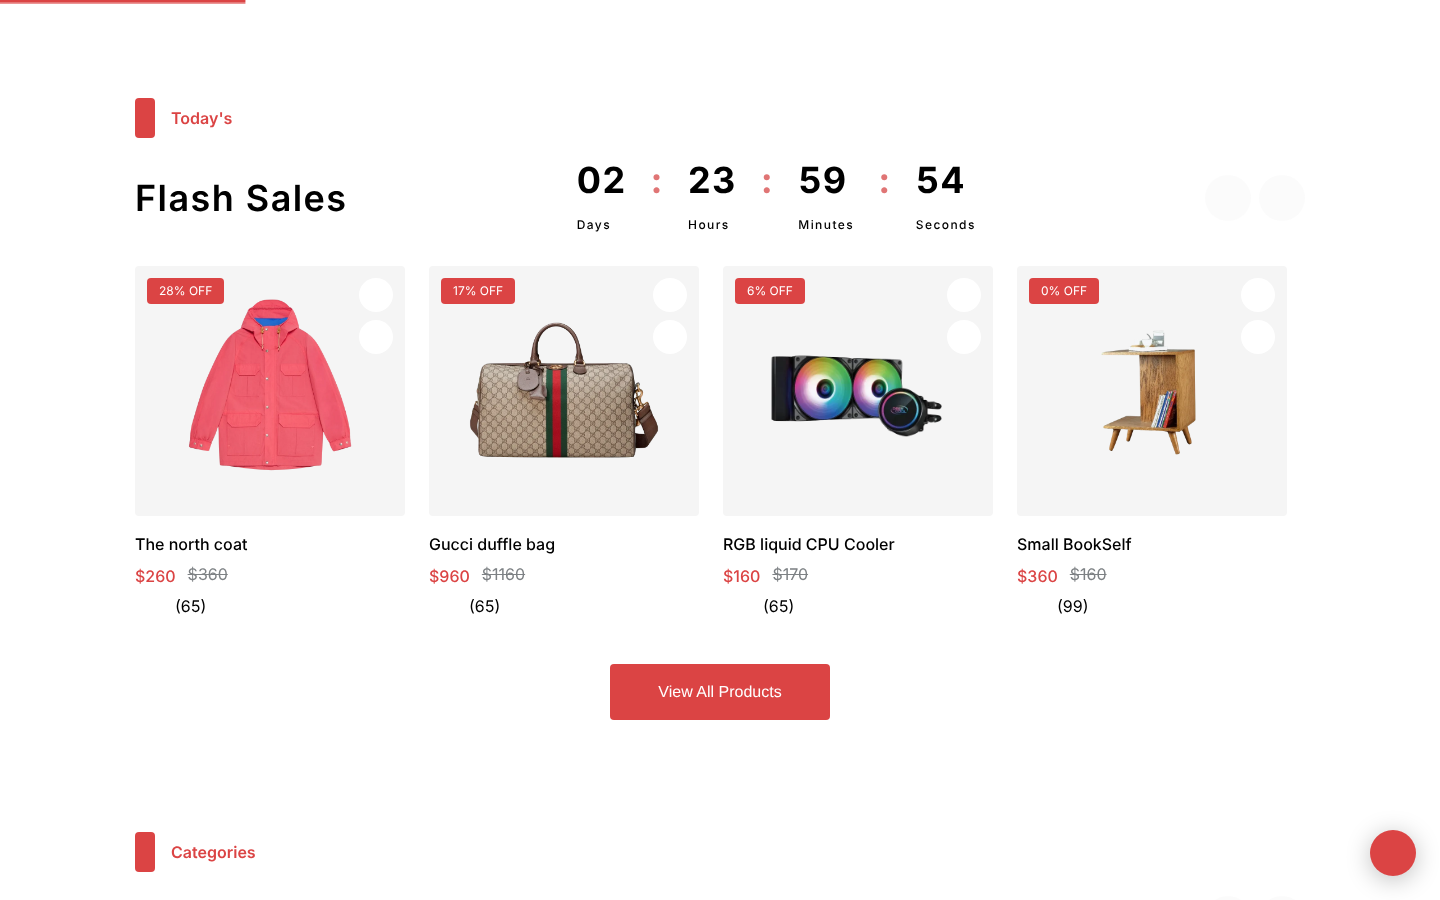
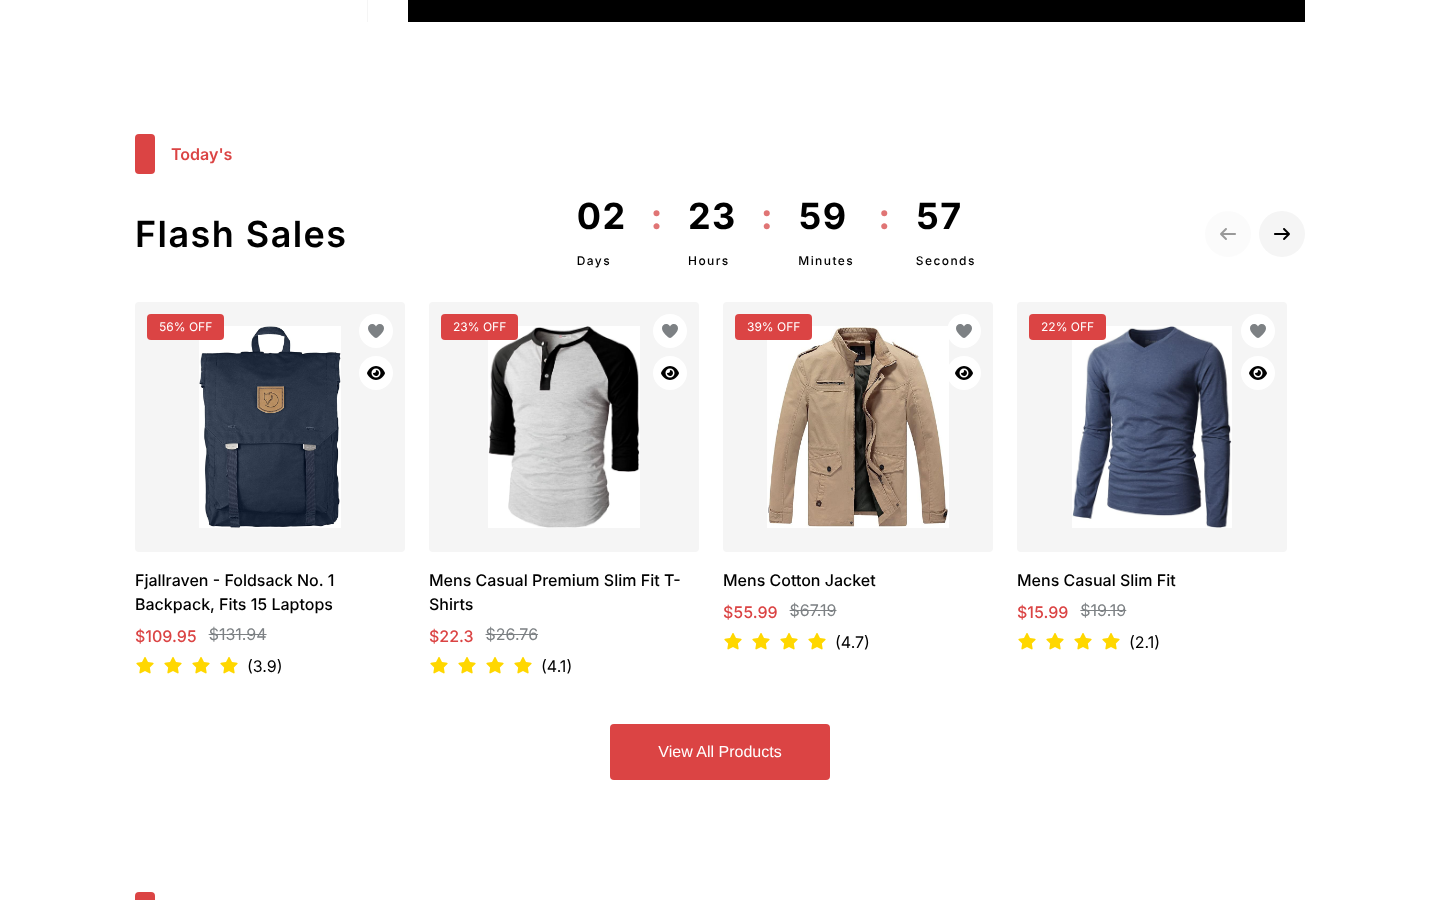
docs(readme): rewrite with a full screenshot tour and setup guide
Retake all screenshots with working icons and real product images, add
shop, product, checkout, wishlist, search, about, contact, Arabic (RTL)
and mobile views, and document features, demo credentials, storage keys
and known limits.

Claude-Session: https://claude.ai/code/session_019BEbuZy8u6ydesNzhcCETE

diff --git a/README.md b/README.md
@@ -1,66 +1,184 @@
-# Exclusive: E-commerce Storefront
+# Exclusive
 
-**A responsive online shop built in React: product browsing, flash sales with a live countdown, wishlist, cart, checkout and Arabic / English with right-to-left layout.**
+A complete online-shop front end built with React. You can browse products, filter them by category, search, like items, fill a cart, apply a coupon and go through checkout. The whole interface also switches between English and Arabic, and the Arabic version flips to right-to-left.
 
-**Live demo:** [ecommerce-one-teal-22.vercel.app](https://ecommerce-one-teal-22.vercel.app)
+Live demo: [ecommerce-one-teal-22.vercel.app](https://ecommerce-one-teal-22.vercel.app)
 
 ![Home page](docs/images/home.png)
 
-## What it is
+## What this is
 
-A front-end storefront based on the "Exclusive" design. It has no backend of its own: the cart and wishlist are kept in the browser (`localStorage`), and products and sign-in come from a public demo API. I built it to practise what every real shop needs: shared state, routing, forms, animation, and a layout that works from phone to desktop.
+Exclusive is a storefront based on the "Exclusive" e-commerce design. It has no server of its own. Products and the demo login come from the public [FakeStore API](https://fakestoreapi.com), and everything the visitor does (cart, wishlist, language, billing details) is kept in the browser with `localStorage`, so it is still there after a refresh.
 
-## Highlights
+It is a good project to read if you want to see how a normal shop is put together in React: shared state, routing, forms, a translated and mirrored layout, and animation, without any backend code in the way.
+
+## What you can do
+
+- Browse a home page with a hero banner, a flash sale slider with a countdown, categories, best sellers, a promo block and new arrivals.
+- Open the shop and filter products by category.
+- Search from the header and get matching products.
+- Open a product page with a gallery, quantity picker, delivery check and related items, or use the quick view popup straight from any product card.
+- Like products and review them on a wishlist page.
+- Add products to a cart, change quantities, remove them, and apply a coupon.
+- Check out with billing details and a payment choice.
+- Sign up or log in.
+- Switch the whole site between English and Arabic.
+- Use it on a phone: the layout adapts down to small screens and the header turns into a menu.
+
+## A tour of the app
+
+### Home and flash sales
+
+The flash sale section pulls products from the API, shows a discount badge, the old price and the rating, and scrolls sideways with the arrow buttons.
 
 ![Flash sales](docs/images/flash-sales.png)
 
-- **Flash sales.** A product slider with a live countdown, discount badges and "Add to cart". If the product API is down, the section falls back to local data instead of staying on "Loading..." forever.
-- **Cart and wishlist.** Add, remove and change quantities, with totals and a coupon box. Everything goes through one `AppContext`, so every page stays in sync without prop drilling, and both survive a page refresh.
-- **Shop, search and product details**, with category filters, a quick-view popup and a checkout page.
-- **Login and sign up** with form feedback and error messages (see the notes below about the demo API).
-- **Smooth animation** with Framer Motion: reveal on scroll, a flip-number countdown, an animated wishlist heart.
-- **Arabic and English.** The language switch in the header also flips the page to right-to-left. English is the fallback for any missing key (`src/i18n`).
-- **Tests** for the cart state and the wishlist flow.
+### Best sellers and quick view
 
-![Login](docs/images/login.png)
+Hovering a card reveals "Add To Cart". The eye icon opens a quick view popup so you can read the description and add the product without leaving the page.
 
-## Tech stack
+<table>
+<tr>
+<td width="50%"><img src="docs/images/best-selling.png" alt="Best selling products grid with the add to cart button showing on a hovered card"><br><sub>Best selling products</sub></td>
+<td width="50%"><img src="docs/images/quick-view.png" alt="Quick view popup over the product grid"><br><sub>Quick view</sub></td>
+</tr>
+</table>
 
-React 19 · React Router 7 · Framer Motion · react-countdown · CSS Modules · Create React App · Jest and Testing Library · deployed on Vercel.
+### Categories and the promo block
 
-## Run it locally
+<table>
+<tr>
+<td width="50%"><img src="docs/images/categories.png" alt="Browse by category row"><br><sub>Browse by category</sub></td>
+<td width="50%"><img src="docs/images/music-promo.png" alt="Music promo block with a countdown and a speaker"><br><sub>Promo block with its own countdown</sub></td>
+</tr>
+</table>
+
+### Shop and product page
+
+The shop page has category filters, and the fashion and electronics links in the home page sidebar open it already filtered. The product page shows a gallery, rating, price, quantity picker, a postal code check and the return policy.
+
+<table>
+<tr>
+<td width="50%"><img src="docs/images/shop.png" alt="Shop page filtered to electronics"><br><sub>Shop, filtered by category</sub></td>
+<td width="50%"><img src="docs/images/product-details.png" alt="Product page for a men's cotton jacket"><br><sub>Product page</sub></td>
+</tr>
+</table>
+
+### Wishlist and checkout
+
+The wishlist keeps everything you liked, grouped by the section it came from. Checkout shows the order, applies the coupon, and can remember your billing details for next time.
+
+<table>
+<tr>
+<td width="50%"><img src="docs/images/wishlist.png" alt="Wishlist page with liked products"><br><sub>Wishlist</sub></td>
+<td width="50%"><img src="docs/images/checkout.png" alt="Checkout page with billing form, order summary and the SAVE10 discount applied"><br><sub>Checkout with a coupon applied</sub></td>
+</tr>
+</table>
+
+### Search and sign in
+
+<table>
+<tr>
+<td width="50%"><img src="docs/images/search.png" alt="Search results for the word jacket"><br><sub>Search results</sub></td>
+<td width="50%"><img src="docs/images/login.png" alt="Log in page"><br><sub>Log in (sign up is on the same page)</sub></td>
+</tr>
+</table>
+
+### About and contact
+
+<table>
+<tr>
+<td width="50%"><img src="docs/images/about.png" alt="About page with the story and key numbers"><br><sub>About</sub></td>
+<td width="50%"><img src="docs/images/contact.png" alt="Contact page with the contact details and message form"><br><sub>Contact</sub></td>
+</tr>
+</table>
+
+### Arabic and right-to-left
+
+The language selector in the top bar changes the interface text and mirrors the layout. Your choice is saved, and English is used for any text that has no Arabic translation yet.
+
+![Home page in Arabic](docs/images/arabic.png)
+
+### On a phone
+
+![Home, open menu and shop on a phone](docs/images/mobile.png)
+
+## Details worth knowing
+
+**Cart and coupon.** Quantities go from 1 to 20. The coupon code `SAVE10` takes 10% off. The cart, the wishlist and the cart counter in the header all read from one shared context, so they never disagree.
+
+**Checkout.** The form validates required fields and offers bank or cash on delivery. If you tick "Save this information", your billing details are filled in next time. There is no payment: placing an order only shows a confirmation.
+
+**Accounts.** Signing up creates an account that lives in your browser only. You can also log in with the FakeStore demo account (username `mor_2314`, password `83r5^_`). "Forget Password?" only shows a confirmation, because there is no email service behind it.
+
+**Countdowns.** The flash sale and promo countdowns are visual. They start from the same length every time the page loads.
+
+**Animation.** Pages fade between routes, sections reveal as you scroll, cards lift on hover, cart totals count up and down, and a thin progress bar and a back-to-top button follow your scroll. Everything uses Framer Motion and respects the "reduce motion" setting of the operating system.
+
+## Run it on your computer
+
+You need Node.js 18 or newer.
 
 ```bash
 git clone https://github.com/Ayaalmadhon2004/Ecommerce-.git
 cd Ecommerce-
 npm install
-npm start          # http://localhost:3000
+npm start
 ```
+
+The app opens at http://localhost:3000. It needs an internet connection, because products, product images and the Font Awesome icons are loaded from the network.
+
+Things to try first:
+
+1. Open the shop, like a few products and add two or three to the cart.
+2. Go to the cart and apply `SAVE10`.
+3. Continue to checkout and place an order.
+4. Switch the language to Arabic from the top bar.
 
 | Command | What it does |
 |---|---|
-| `npm start` | Development server |
-| `npm test` | Tests in watch mode (`npm test -- --watchAll=false` for a single run) |
-| `npm run build` | Production build in `build/` |
+| `npm start` | Starts the development server |
+| `npm run build` | Creates the production build in `build/` |
+| `npm test -- --watchAll=false` | Runs the tests once |
+
+## Built with
+
+- React 19 and React Router 7
+- Framer Motion for animation
+- react-countdown for the flash sale timer
+- CSS Modules for most components, and Tailwind CSS for the About and Contact pages
+- Font Awesome icons, loaded from a CDN
+- Create React App, Jest and Testing Library
+- Deployed on Vercel
 
 ## Project structure
 
 ```
 src/
-├── App.js                 routes and the home page composition
-├── context/               AppContext (cart, likes) and AuthContext
-├── i18n/                  translations and the language switcher
+├── App.js                 routes and the home page layout
+├── context/               AppContext (cart, likes, coupon) and AuthContext
+├── i18n/                  translations and the language provider
+├── hooks/                 shared hooks, such as the sideways scroller
+├── styles/                design tokens and shared CSS
 └── components/
-    ├── <Name>/            one folder per component: .jsx + its own CSS Module
-    └── data/              static product and category data
+    ├── <Name>/            one folder per component: .jsx plus its own CSS Module
+    ├── animations/        shared Framer Motion variants and helpers
+    └── data/              static product, category and service data
 ```
 
-## Notes and known limits
+State that survives a refresh is stored under these `localStorage` keys: `cart`, `likes`, `lang`, `token`, `username`, `localUsers` and `billingInfo`.
 
-- The shop, product details and login talk to the public [FakeStore API](https://fakestoreapi.com), so they need an internet connection and are only as available as that service. Its demo accounts are the only ones that can sign in.
-- There is no payment. Checkout is a front-end flow only.
-- Branch and commit rules for contributors are in [`CLAUDE.md`](CLAUDE.md).
+## Known limits
+
+- Products, product images and the demo login depend on the FakeStore API. If it is down, the shop pages show an error and the flash sale section falls back to a small set of local products.
+- Checkout, the contact form, the newsletter box and password reset have no backend. They confirm the action and nothing more.
+- The Privacy Policy, Terms and FAQ pages contain placeholder text.
+- `npm test` runs three tests. The wishlist test currently fails because the page has two links named "Wishlist" (header and footer) and the test expects one.
+
+## Contributing
+
+Branch names, commit style and the checks to run before pushing are described in [`CLAUDE.md`](CLAUDE.md). In short: one change per branch, small commits, and `npm run build` must pass.
 
 ## Author
 
-Built by **Aya Almadhon**. [Portfolio](https://portfolio-of-aya.vercel.app) · [GitHub](https://github.com/Ayaalmadhon2004)
+Built by Aya Almadhon. [Portfolio](https://portfolio-of-aya.vercel.app) · [GitHub](https://github.com/Ayaalmadhon2004)
